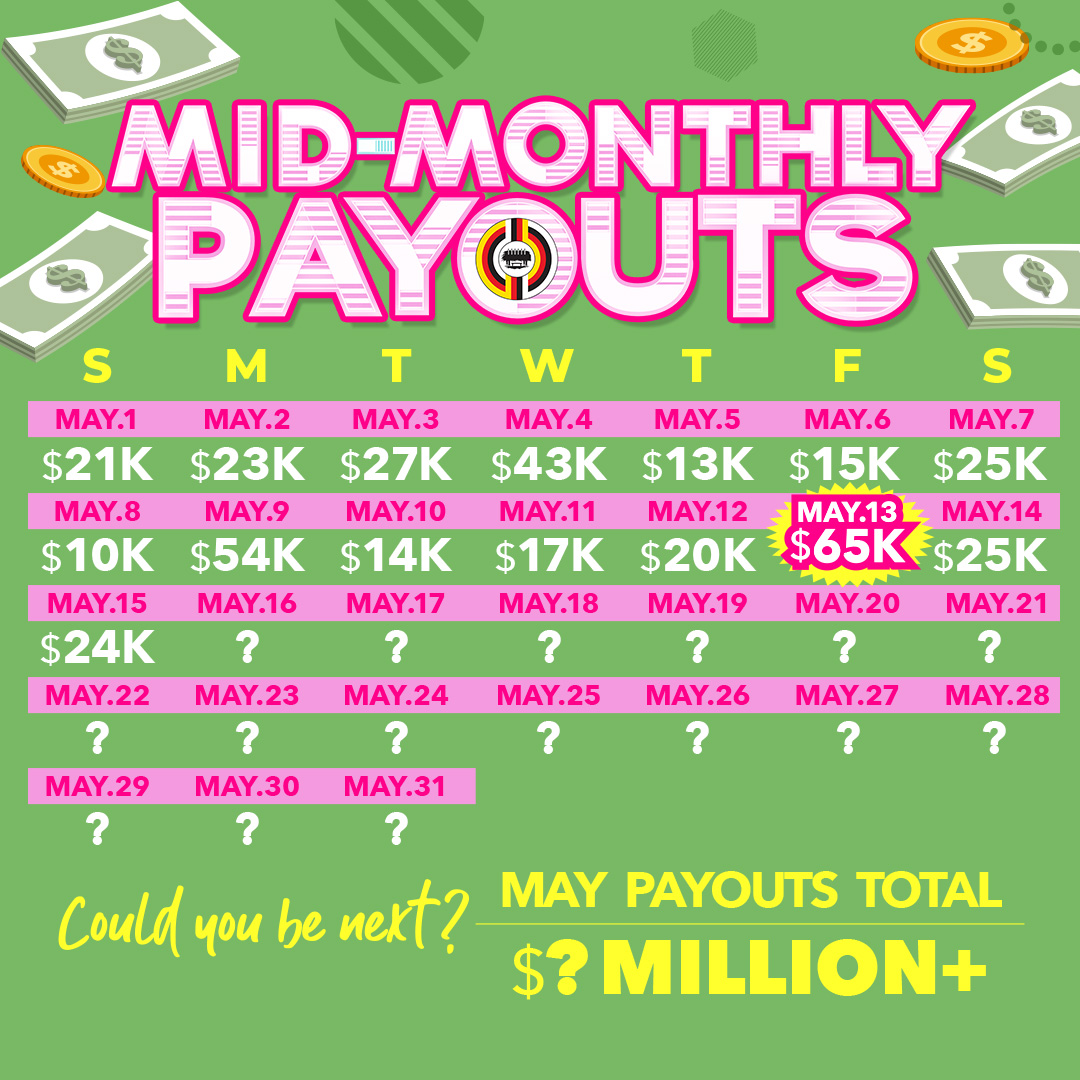
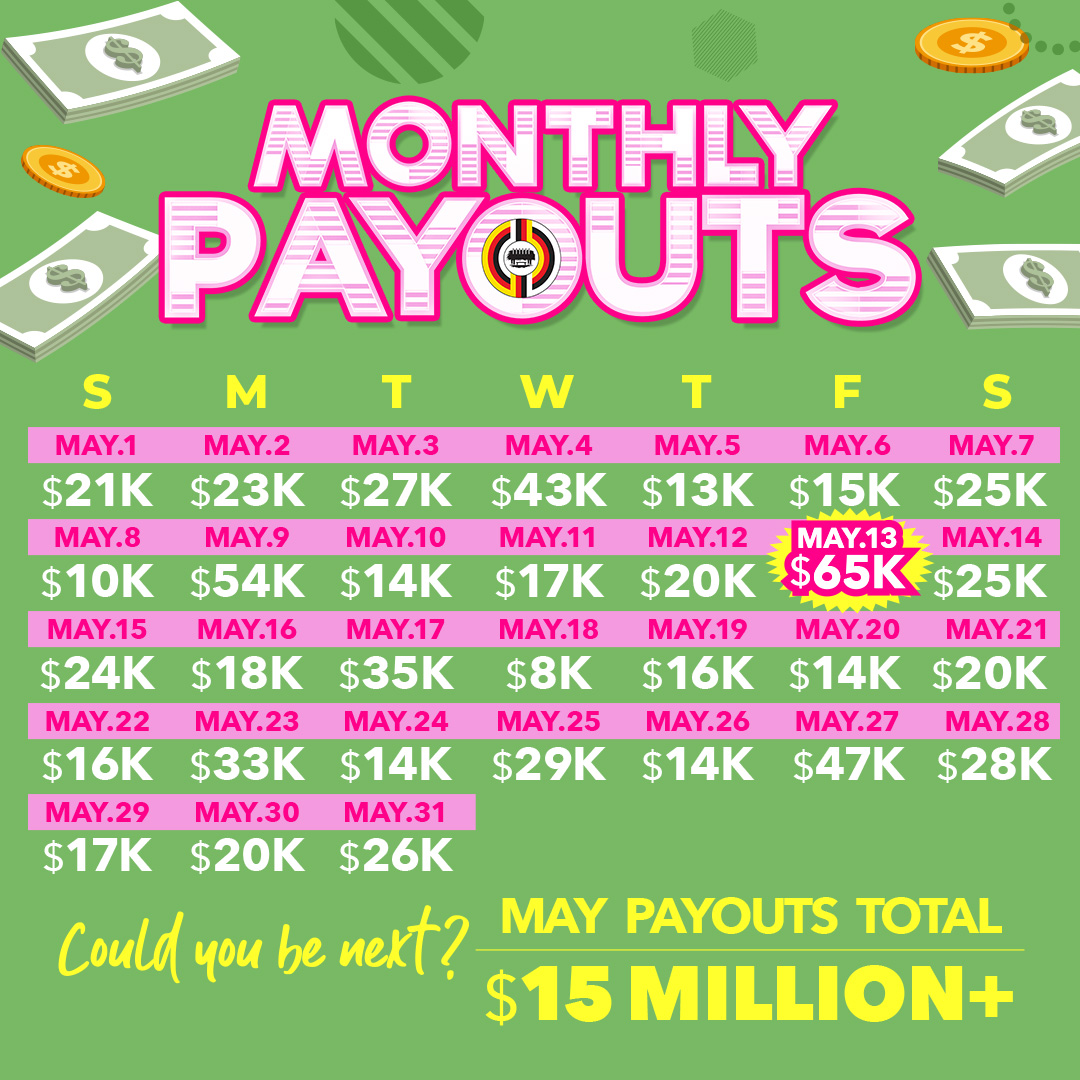
new monthly promo popup

diff --git a/src/services/functions/popups/popupManager.js b/src/services/functions/popups/popupManager.js
@@ -3,7 +3,7 @@
 
 //import mrgImage from "assets/media/img/test/MonthlyPayouts_Calendar_April-1.jpg";
 import aidImage from 'assets/media/img/events/aid/21/aid_2021_popup_min.jpg';
-import mrgImage from 'assets/media/img/popups/large-24hr-gmaing-friday.jpg';
+import mrgImage from 'assets/media/img/popups/MonthlyPayouts_Calendar_May.jpeg';
 import promoImage1 from 'assets/media/img/popups/oxford_luggage.jpg';
 import hubPopup from 'assets/media/img/popups/POPUP_Service-Plaza-Tribal.jpg';
 import jobFair from 'assets/media/img/popups/JOBFair2021_WebSlider.jpg';
@@ -79,13 +79,13 @@ const mrgPopup = {
     start: {
       year: '22',
       month: 'May',
-      day: '15',
+      day: '31',
       time: '',
     },
     end: {
       year: '22',
-      month: 'May',
-      day: '28',
+      month: 'June',
+      day: '15',
       time: '',
     },
   }),
